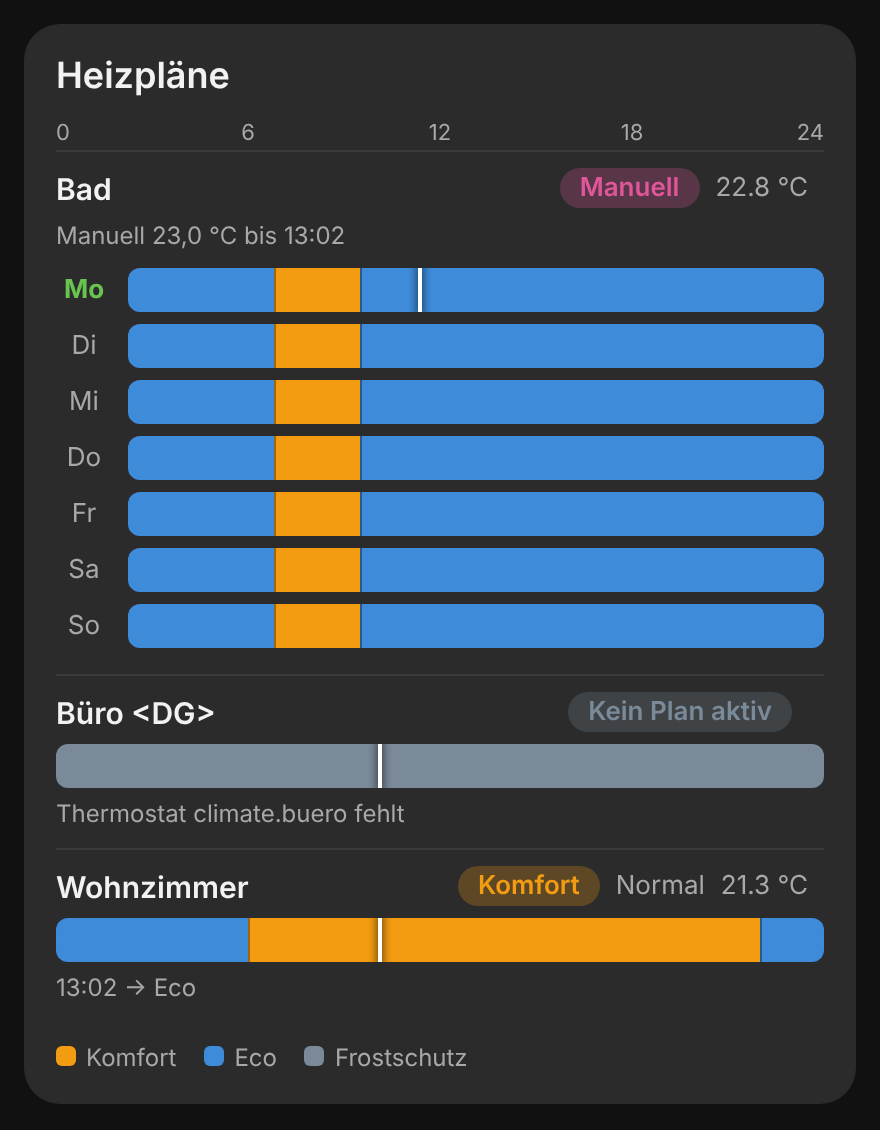
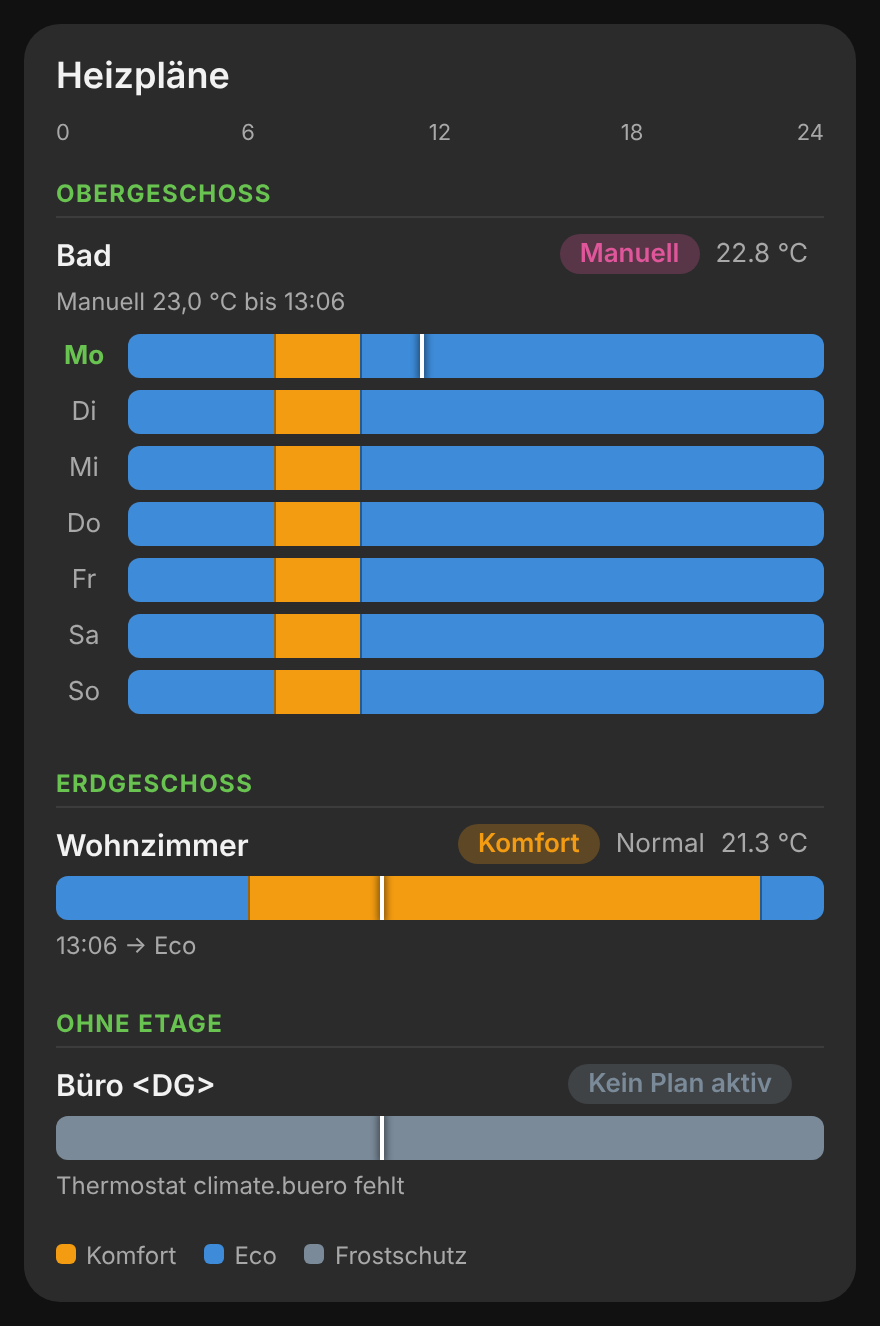
Heizplan Card 0.7.1: Raumname wählen, Übersicht nach Etage (#5)
* Heizplan Card 0.5.3: Thermostatwechsel übernimmt den Wochenplan

Nach einem Wechsel des Raumthermostats lief der alte Plan am alten
Thermostat weiter. Die Karte lädt die Zeitpläne nach einer
Konfigurationsänderung neu und bietet an, den Plan zu übernehmen.

Claude-Session: https://claude.ai/code/session_01XK19cYGCiUdhtM43aoTkG4

* Heizplan Card 0.5.4: Zeitpläne umbenennen und gelöschte wieder anlegen

Nach einem Thermostatwechsel oder neuem Anzeigenamen behielten die
Zeitpläne den alten Namen, und im Scheduler gelöschte Zeitpläne wurden
nicht wieder erzeugt. Die Karte benennt sie jetzt beim Laden neu, legt
gelöschte Tage aus einer Browser-Sicherung wieder an und übernimmt den
Plan beim Thermostatwechsel über den normalen Speicherweg.

Claude-Session: https://claude.ai/code/session_01XK19cYGCiUdhtM43aoTkG4

* Heizplan Card 0.5.4: doppelten Block aus dem Merge entfernen

Claude-Session: https://claude.ai/code/session_01XK19cYGCiUdhtM43aoTkG4

* Heizplan Card 0.6.0: Pläne in der Heizplan-Integration speichern

Ist die Integration juergenschorb/heizplan installiert, lädt und speichert
die Karte Wochenplan und manuelle Vorgabe dort. Räume aus dem Scheduler
lassen sich per Knopf übernehmen. Ohne Integration bleibt alles wie bisher.

Claude-Session: https://claude.ai/code/session_01XK19cYGCiUdhtM43aoTkG4

* Heizplan Card 0.7.0: Übersichtskarte für alle Räume der Heizplan-Integration

Claude-Session: https://claude.ai/code/session_01XK19cYGCiUdhtM43aoTkG4
[…]

diff --git a/dist/heizplan-card.js b/dist/heizplan-card.js
@@ -9,7 +9,7 @@
  * und zeitlich begrenzte manuelle Temperatur (pausiert den Plan bis zum Ende).
  */
 
-const CARD_VERSION = "0.7.0";
+const CARD_VERSION = "0.7.1";
 
 const OVERRIDE_HOURS = [1, 2, 3, 4, 5, 6, 8, 12, 24];
 
@@ -298,7 +298,7 @@ class HeizplanCard extends HTMLElement {
     }
     // nur neu zeichnen, wenn sich eine Entität dieser Karte geändert hat;
     // sonst ersetzt jede Zustandsänderung in HA die Knöpfe und Klicks gehen verloren
-    if (!this._edit && (first || this._relevantEntities().some((e) => old.states[e] !== hass.states[e]))) this._render();
+    if (!this._edit && !this._typing() && (first || this._relevantEntities().some((e) => old.states[e] !== hass.states[e]))) this._render();
   }
 
   _relevantEntities() {
@@ -314,8 +314,13 @@ class HeizplanCard extends HTMLElement {
     return 6;
   }
 
+  // beim Tippen des Raumnamens nicht neu zeichnen, sonst verliert das Feld den Fokus
+  _typing() {
+    return !!this.shadowRoot?.activeElement?.classList?.contains("impname");
+  }
+
   connectedCallback() {
-    this._tick = setInterval(() => !this._edit && this._render(), 60000);
+    this._tick = setInterval(() => !this._edit && !this._typing() && this._render(), 60000);
   }
 
   disconnectedCallback() {
@@ -496,7 +501,7 @@ class HeizplanCard extends HTMLElement {
   _importHtml() {
     if (!this._backend || this._room || !this._weeks || this._error || this._userConfig.plans?.length) return "";
     return `<div class="note">Die Heizplan-Integration ist installiert. Dieser Raum läuft noch über den Scheduler.
-      <div class="mig"><button class="impbtn" ${this._migrating ? "disabled" : ""}>Raum in Heizplan übernehmen</button></div>
+      <div class="mig"><input class="impname" type="text" value="${esc(this._impName ?? this._userConfig.name ?? this._schedName())}" placeholder="Raumname" /><button class="impbtn" ${this._migrating ? "disabled" : ""}>Raum in Heizplan übernehmen</button></div>
       <div class="phint">Legt den Raum mit diesem Wochenplan in der Integration an und entfernt die Zeitpläne aus dem Scheduler.</div></div>`;
   }
 
@@ -516,7 +521,8 @@ class HeizplanCard extends HTMLElement {
       for (const k of ["season_entity", "mode_entity", "mode_heat", "mode_vacation", "workday_entity", "default_mode"])
         if (c[k]) options[k] = c[k];
       const tags = [...this._plans.map((pl) => pl.tag), this._overrideTag()];
-      const room = await hass.callWS({ type: "heizplan/import", name: this._schedName(), climate: c.entity, options, plans });
+      const name = (this._impName ?? c.name ?? "").trim() || this._schedName();
+      const room = await hass.callWS({ type: "heizplan/import", name, climate: c.entity, options, plans });
       // ab jetzt schaltet die Integration: Zeitpläne im Scheduler entfernen
       const all = (await hass.callWS({ type: "scheduler" }).catch(() => [])) || [];
       for (const s of all.filter((x) => (x.tags || []).some((t) => tags.includes(t)))) {
@@ -1012,7 +1018,7 @@ class HeizplanCard extends HTMLElement {
 
   _name() {
     const st = this._hass?.states?.[this._config.entity];
-    return this._config.name || st?.attributes?.friendly_name || this._config.entity;
+    return this._config.name || this._room?.name || st?.attributes?.friendly_name || this._config.entity;
   }
 
   // ---------- Darstellung ----------
@@ -1177,6 +1183,9 @@ class HeizplanCard extends HTMLElement {
             })
       )
     );
+    const impName = this.shadowRoot.querySelector(".impname");
+    impName?.addEventListener("input", () => (this._impName = impName.value));
+    impName?.addEventListener("click", (ev) => ev.stopPropagation());
     this.shadowRoot.querySelector(".impbtn")?.addEventListener("click", () => !this._migrating && this._importToBackend());
     this.shadowRoot.querySelector(".migbtn")?.addEventListener("click", (ev) => {
       const from = ev.currentTarget.dataset.from || this.shadowRoot.querySelector(".migsel")?.value;
@@ -1556,7 +1565,7 @@ const STYLE = `
   .err { background: #5a2a2a; color: #ffb3b3; border-radius: 10px; padding: 8px 10px; font-size: 13px; margin-top: 8px; }
   .note { background: #2f3a26; color: #cfe8c0; border-radius: 10px; padding: 8px 10px; font-size: 13px; margin-top: 8px; }
   .mig { display: flex; gap: 8px; margin-top: 8px; flex-wrap: wrap; }
-  .mig select { flex: 1; min-width: 0; background: var(--card-background-color, #222); color: inherit; border: 1px solid #555; border-radius: 8px; padding: 6px; font: inherit; }
+  .mig select, .mig input { flex: 1; min-width: 0; background: var(--card-background-color, #222); color: inherit; border: 1px solid #555; border-radius: 8px; padding: 6px; font: inherit; }
   .migbtn, .impbtn { background: var(--primary-color, #03a9f4); color: #fff; border: 0; border-radius: 8px; padding: 6px 12px; font: inherit; cursor: pointer; }
   .migbtn[disabled], .impbtn[disabled] { opacity: .5; cursor: default; }
   .row.hol { margin-top: 4px; border-top: 1px solid #3c3c3c; border-radius: 0 0 10px 10px; }
@@ -1615,13 +1624,16 @@ class HeizplanOverviewCard extends HTMLElement {
       schema: [
         { name: "title", selector: { text: {} } },
         { name: "rooms", selector: { entity: { multiple: true, filter: [{ domain: "sensor", integration: "heizplan" }] } } },
+        { name: "group_by_floor", selector: { boolean: {} } },
       ],
-      computeLabel: (s) => ({ title: "Titel", rooms: "Räume (leer = alle)" })[s.name],
+      computeLabel: (s) => ({ title: "Titel", rooms: "Räume (leer = alle)", group_by_floor: "Nach Etage gruppieren" })[s.name],
+      computeHelper: (s) =>
+        ({ group_by_floor: "Etage = Etage des Bereichs, dem das Thermostat in Home Assistant zugeordnet ist" })[s.name],
     };
   }
 
   setConfig(config) {
-    this._config = { title: "Heizpläne", ...(config || {}) };
+    this._config = { title: "Heizpläne", group_by_floor: true, ...(config || {}) };
     this._open = this._open || new Set();
     if (this._hass) this._load();
     this._render();
@@ -1680,6 +1692,29 @@ class HeizplanOverviewCard extends HTMLElement {
   _mode(key) {
     const m = DEFAULT_MODES.find((x) => x.key === key);
     return m || OV_STATES[key] || { label: key, color: "#555" };
+  }
+
+  // Etage des Thermostats: Entität oder Gerät -> Bereich -> Etage
+  _floor(room) {
+    const h = this._hass;
+    const ent = h?.entities?.[room.climate];
+    const areaId = ent?.area_id || h?.devices?.[ent?.device_id]?.area_id;
+    const floorId = h?.areas?.[areaId]?.floor_id;
+    const floor = floorId && h?.floors?.[floorId];
+    return floor ? { id: floorId, name: floor.name, level: floor.level ?? 0 } : null;
+  }
+
+  _groups(rooms) {
+    if (!this._config.group_by_floor) return [{ name: "", rooms }];
+    const map = new Map();
+    for (const r of rooms) {
+      const f = this._floor(r) || { id: "", name: "Ohne Etage", level: -1000 };
+      if (!map.has(f.id)) map.set(f.id, { ...f, rooms: [] });
+      map.get(f.id).rooms.push(r);
+    }
+    const groups = [...map.values()].sort((a, b) => b.level - a.level || a.name.localeCompare(b.name, "de"));
+    // keine Etagen gepflegt: ohne Überschriften
+    return groups.length === 1 && groups[0].id === "" ? [{ name: "", rooms }] : groups;
   }
 
   _isHoliday(room) {
@@ -1768,7 +1803,9 @@ class HeizplanOverviewCard extends HTMLElement {
         : !rooms.length
           ? `<div class="loading">Noch keine Räume in der Heizplan-Integration.</div>`
           : `<div class="oscale"><div>${[0, 6, 12, 18, 24].map((h) => `<b style="left:${(h / 24) * 100}%">${h}</b>`).join("")}</div></div>
-             ${rooms.map((r) => this._roomHtml(r, now)).join("")}
+             ${this._groups(rooms)
+               .map((g) => `${g.name ? `<div class="ofloor">${esc(g.name)}</div>` : ""}${g.rooms.map((r) => this._roomHtml(r, now)).join("")}`)
+               .join("")}
              <div class="legend">${DEFAULT_MODES.map((m) => `<span class="lg"><i style="background:${m.color}"></i>${m.label}</span>`).join("")}</div>`;
     this.shadowRoot.innerHTML = `<style>${STYLE}${OV_STYLE}</style><ha-card>
       ${this._config.title ? `<div class="title">${esc(this._config.title)}</div>` : ""}
@@ -1790,6 +1827,7 @@ const OV_STYLE = `
   .oscale b { position: absolute; transform: translateX(-50%); font-weight: 400; }
   .oscale b:first-child { transform: none; }
   .oscale b:last-child { transform: translateX(-100%); }
+  .ofloor { margin-top: 14px; padding-bottom: 4px; font-size: 12px; font-weight: 700; letter-spacing: .06em; text-transform: uppercase; color: var(--acc); }
   .oroom { padding: 8px 0 10px; border-top: 1px solid #3c3c3c; cursor: pointer; }
   .ohead { display: flex; align-items: center; gap: 8px; margin-bottom: 6px; font-size: 13px; }
   .oname { font-weight: 600; font-size: 15px; flex: 1; min-width: 0; overflow: hidden; text-overflow: ellipsis; white-space: nowrap; }

diff --git a/README.md b/README.md
@@ -44,7 +44,7 @@ Dazu zwei Blueprints:
 ### Manuell
 
 1. `dist/heizplan-card.js` nach `/config/www/heizplan-card.js` kopieren
-2. *Einstellungen → Dashboards → ⋮ → Ressourcen → Ressource hinzufügen*: URL `/local/heizplan-card.js?v=0.7.0`, Typ **JavaScript-Modul**
+2. *Einstellungen → Dashboards → ⋮ → Ressourcen → Ressource hinzufügen*: URL `/local/heizplan-card.js?v=0.7.1`, Typ **JavaScript-Modul**
 3. Bei neuen Versionen Datei ersetzen und `?v=` hochzählen
 
 ## Karte einrichten
@@ -158,6 +158,8 @@ type: custom:heizplan-overview-card
 title: Heizpläne
 ```
 
+Die Räume werden nach Etage gruppiert, wenn die Thermostate in Home Assistant einem Bereich mit Etage zugeordnet sind (abschaltbar mit `group_by_floor: false`). So können Räume in verschiedenen Etagen gleich heißen, z. B. zweimal „Wohnzimmer“. Den Raumnamen vergibst du beim Übernehmen in der Karte oder später unter *Geräte & Dienste → Heizplan → ⋮ → Umbenennen*.
+
 Optional nur bestimmte Räume:
 
 ```yaml
@@ -182,4 +184,4 @@ rooms:
 
 ## Stand
 
-Version 0.7.0. Mit Testdaten im Browser geprüft, noch nicht in einer echten Home-Assistant-Instanz.
+Version 0.7.1. Mit Testdaten im Browser geprüft, noch nicht in einer echten Home-Assistant-Instanz.
